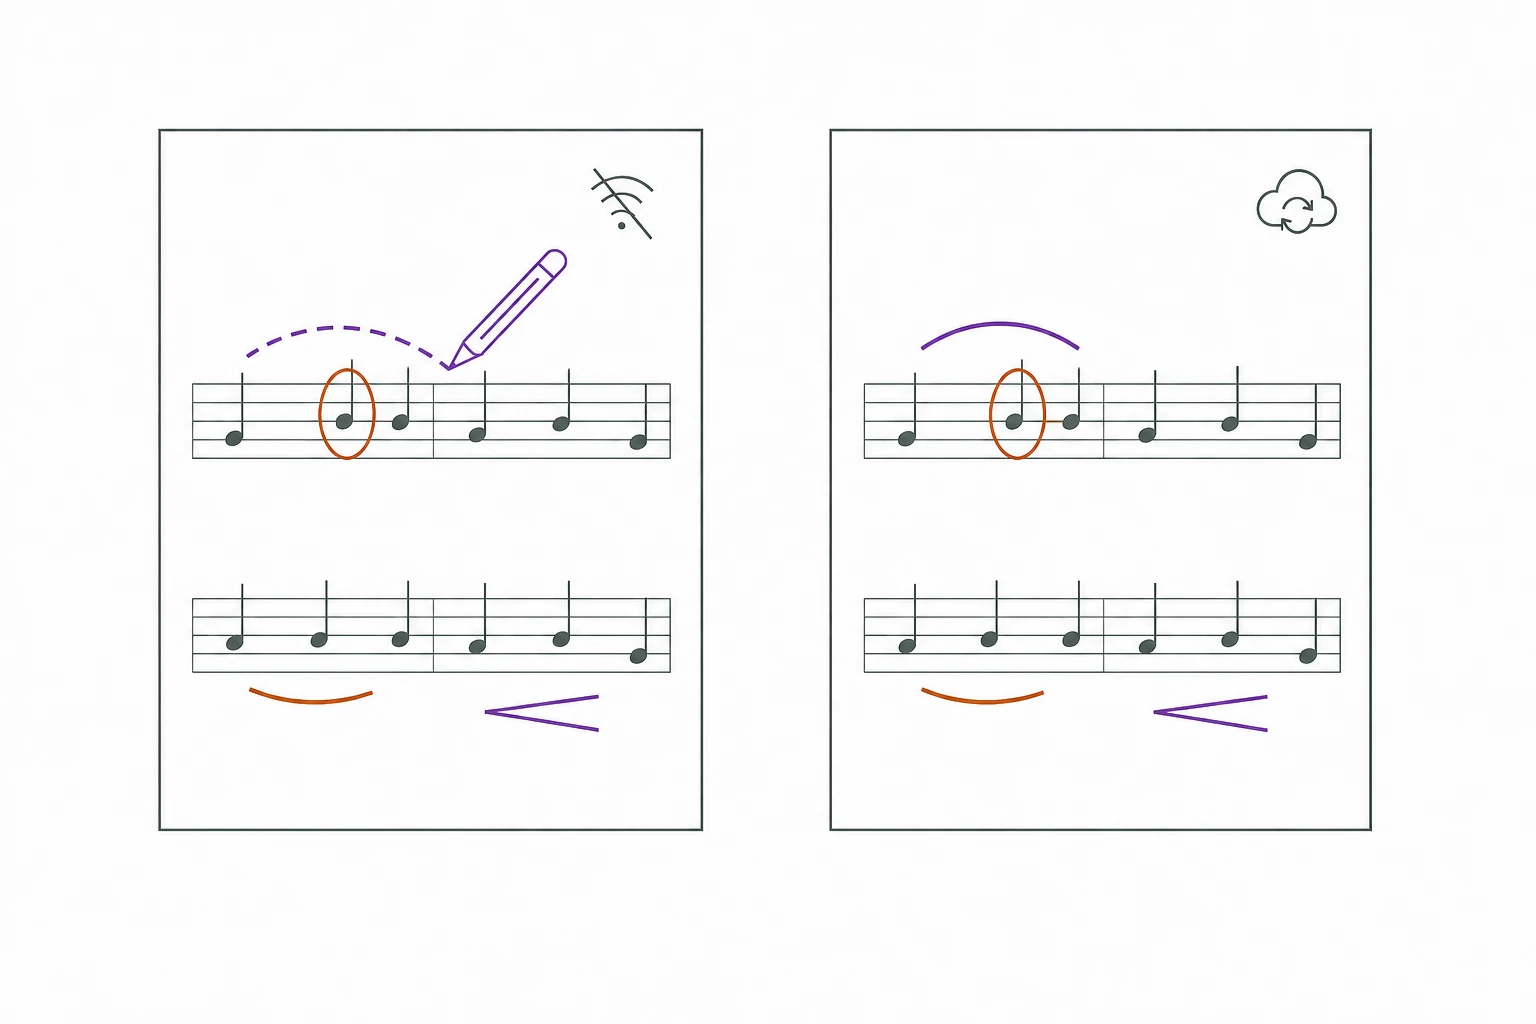
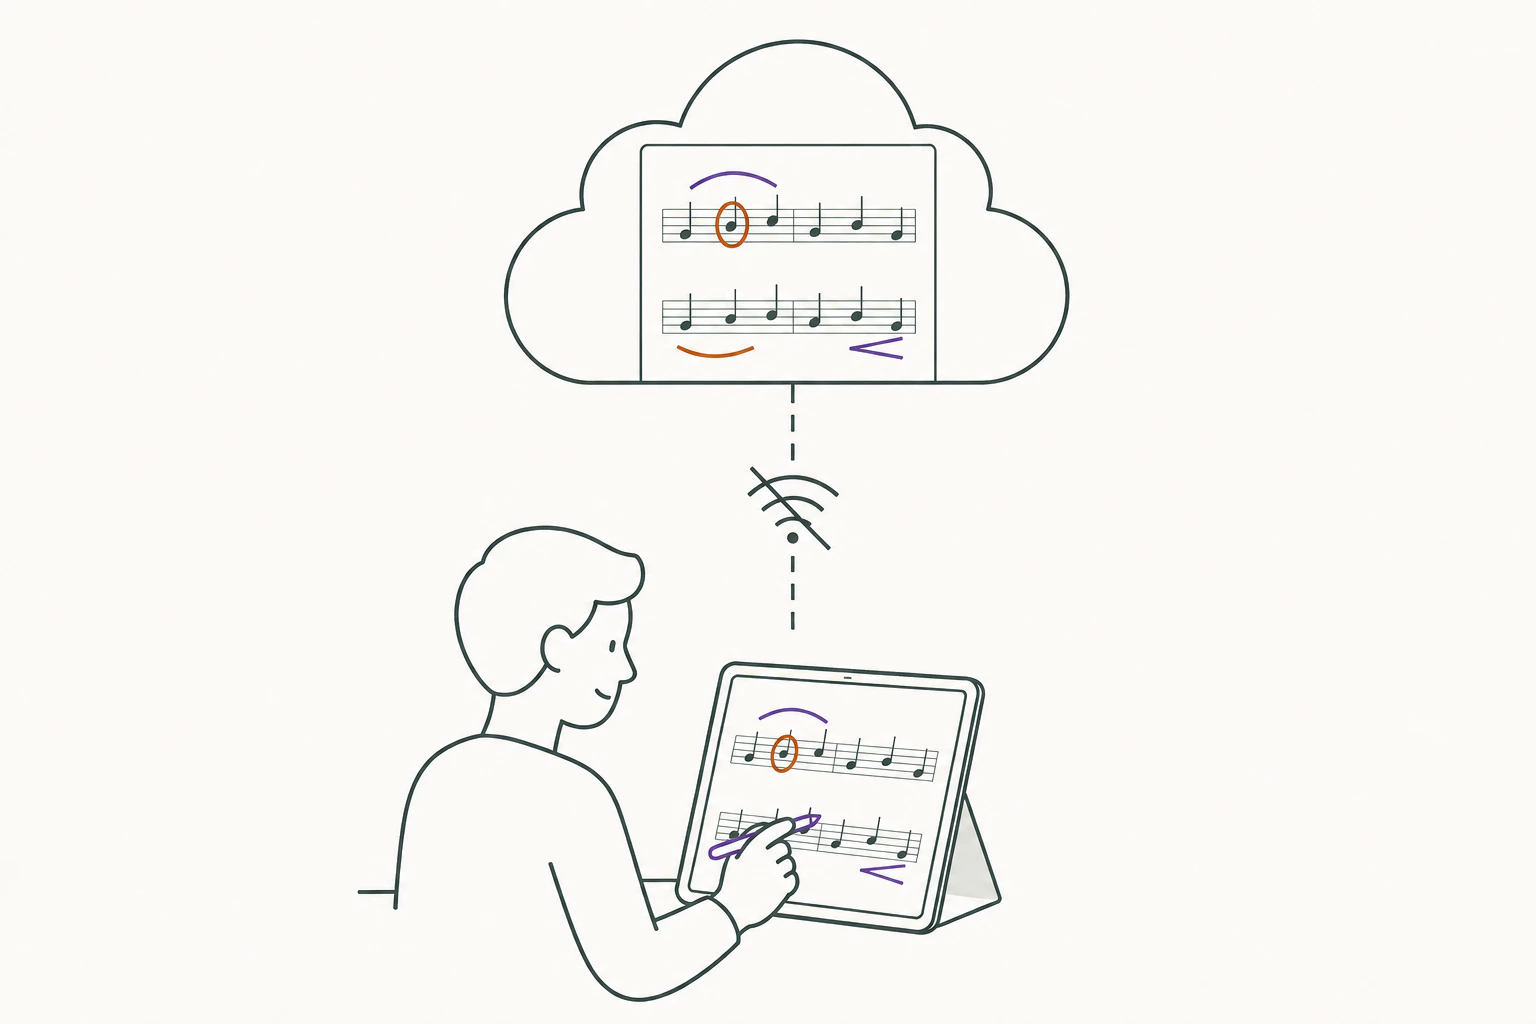
优化首页功能展示与示意图 (#129)

diff --git a/src/client/routes/home-page.tsx b/src/client/routes/home-page.tsx
@@ -52,34 +52,28 @@ type JoinStep =
 
 const productFeatures = [
   {
-    title: "不同声部，分层共享",
+    title: "不同声部，分层共享批注",
     illustration: sharedLayersIllustration,
-    illustrationAlt: "不同颜色的共享批注层从同一份乐谱展开，每层保留多处标记。",
     description:
       "排练要求按声部分层共享，获授权的人可以留下批注，大家在同一份谱上查看。",
   },
   {
-    title: "只看需要的，也保留自己的",
+    title: "共享批注按需看，个人笔记自己留",
     illustration: personalLayerIllustration,
-    illustrationAlt:
-      "显示紫色 Tenor 男高音共享层与仅自己可见的绿色个人层，其余共享层呈灰色虚线隐藏状态。",
     description:
       "选择需要查看的声部批注，也能在个人层记下自己的提醒，只有你能看到。",
   },
   {
-    title: "有网就同步，没网不耽误",
+    title: "离线可用，联网同步",
     illustration: offlineSyncIllustration,
-    illustrationAlt:
-      "左侧断网时仍能用笔在谱上画出虚线连音线；右侧联网时显示实线批注和云同步图标。",
     description:
       "提前下载离线副本，断网也能继续看谱、做批注；恢复联网后，批注会继续同步。",
   },
   {
-    title: "一份乐谱，适配每台设备",
+    title: "一份乐谱，多设备可用",
     illustration: everyDeviceIllustration,
-    illustrationAlt: "电脑、平板和手机上显示同一份乐谱与相同的彩色批注。",
     description:
-      "在平板、手机或电脑上，都能打开同一份乐谱和批注。",
+      "建议将合谱像应用一样安装到 Android 手机和平板、iPhone、iPad、Windows 电脑或 Mac，随时打开同一份乐谱和批注。",
   },
 ] as const;
 
@@ -300,42 +294,47 @@ export function HomePage() {
         </main>
       ) : session.isPending ? <main className="page-shell"><p role="status">正在加载…</p></main> : <main className="marketing-content">
         <section className="marketing-hero" aria-labelledby="page-title">
-          <p className="hero-mark">合谱 · Same Page</p>
-          <h1 id="page-title" lang="en">
-            Harmony begins on the Same Page
-          </h1>
-          <p className="hero-zh" lang="zh-CN">
-            你的笔记我的谱
-          </p>
-          <div className="hero-description">
-            <p lang="en">
-              A cloud-based score library built for choir rehearsals and shared
-              annotations.
+          <div className="marketing-hero__content">
+            <p className="hero-mark">合谱 · Same Page</p>
+            <h1 id="page-title" lang="en">
+              Harmony begins on the Same Page
+            </h1>
+            <p className="hero-zh" lang="zh-CN">
+              你的笔记我的谱
             </p>
-            <p lang="zh-CN">为合唱排练与共享批注打造的乐谱云盘。</p>
-          </div>
-          <div className="hero-actions">
-            <Button
-              className="primary-button hero-cta"
-              onPress={() => setJoinOpen(true)}
-            >
-              进入云盘
-            </Button>
-            {previewChoir ? (
-              <Link
-                className="hero-preview-link"
-                to={`/choirs/${previewChoir.id}`}
-                onClick={() => startLoadingJourney("enter-drive", "warm")}
+            <div className="hero-description">
+              <p lang="en">
+                A cloud-based score library built for choir rehearsals and shared
+                annotations.
+              </p>
+              <p lang="zh-CN">为合唱排练与共享批注打造的乐谱云盘。</p>
+            </div>
+            <div className="hero-actions">
+              <Button
+                className="primary-button hero-cta"
+                onPress={() => setJoinOpen(true)}
               >
-                访问公开体验云盘
-              </Link>
+                进入云盘
+              </Button>
+              {previewChoir ? (
+                <Link
+                  className="hero-preview-link"
+                  to={`/choirs/${previewChoir.id}`}
+                  onClick={() => startLoadingJourney("enter-drive", "warm")}
+                >
+                  访问公开体验云盘
+                </Link>
+              ) : null}
+            </div>
+            {pageMessage ? (
+              <p className="form-message page-message" role="alert">
+                {pageMessage}
+              </p>
             ) : null}
           </div>
-          {pageMessage ? (
-            <p className="form-message page-message" role="alert">
-              {pageMessage}
-            </p>
-          ) : null}
+          <a className="marketing-more-features" href="#features">
+            了解更多功能 <span aria-hidden="true">↓</span>
+          </a>
         </section>
 
         <section id="features" className="marketing-features" aria-label="产品特点">
@@ -355,7 +354,7 @@ export function HomePage() {
               <img
                 className="marketing-feature__illustration"
                 src={feature.illustration}
-                alt={feature.illustrationAlt}
+                alt=""
                 width={1536}
                 height={1024}
                 loading="lazy"

diff --git a/src/client/app.test.tsx b/src/client/app.test.tsx
@@ -103,17 +103,22 @@ describe("AppRoutes", () => {
       screen.getByText("为合唱排练与共享批注打造的乐谱云盘。"),
     ).toHaveAttribute("lang", "zh-CN");
     expect(
-      screen.getByRole("heading", { name: "不同声部，分层共享" }),
+      screen.getByRole("heading", { name: "不同声部，分层共享批注" }),
     ).toBeInTheDocument();
     expect(
-      screen.getByRole("heading", { name: "只看需要的，也保留自己的" }),
+      screen.getByRole("heading", {
+        name: "共享批注按需看，个人笔记自己留",
+      }),
     ).toBeInTheDocument();
     expect(
-      screen.getByRole("heading", { name: "有网就同步，没网不耽误" }),
+      screen.getByRole("heading", { name: "离线可用，联网同步" }),
     ).toBeInTheDocument();
     expect(
-      screen.getByRole("heading", { name: "一份乐谱，适配每台设备" }),
+      screen.getByRole("heading", { name: "一份乐谱，多设备可用" }),
     ).toBeInTheDocument();
+    expect(
+      screen.getByRole("link", { name: "了解更多功能" }),
+    ).toHaveAttribute("href", "#features");
     expect(
       screen.getByText(
         "排练要求按声部分层共享，获授权的人可以留下批注，大家在同一份谱上查看。",
@@ -131,7 +136,7 @@ describe("AppRoutes", () => {
     ).toBeInTheDocument();
     expect(
       screen.getByText(
-        "在平板、手机或电脑上，都能打开同一份乐谱和批注。",
+        "建议将合谱像应用一样安装到 Android 手机和平板、iPhone、iPad、Windows 电脑或 Mac，随时打开同一份乐谱和批注。",
       ),
     ).toBeInTheDocument();
     expect(screen.getByRole("link", { name: "登录" })).toBeInTheDocument();

diff --git a/src/client/styles.css b/src/client/styles.css
@@ -544,19 +544,60 @@ h1 {
 }
 
 .marketing-hero {
-  display: flex;
-  flex-direction: column;
-  align-items: flex-start;
-  justify-content: center;
+  display: grid;
+  grid-template-rows: 1fr auto 1fr;
   width: min(76rem, calc(100% - 2.5rem));
+  min-height: calc(100svh - 5rem);
   margin: 0 auto;
   padding: clamp(3rem, 6vw, 5rem) 0 clamp(4rem, 8vw, 7rem);
+}
+
+.marketing-hero__content {
+  grid-row: 2;
+  width: 100%;
+}
+
+.marketing-more-features {
+  display: inline-flex;
+  grid-row: 3;
+  align-self: end;
+  justify-self: center;
+  align-items: center;
+  gap: 0.45rem;
+  min-height: 2.75rem;
+  padding: 0.35rem 0.6rem;
+  color: var(--muted);
+  font-size: 0.88rem;
+  font-weight: 700;
+  letter-spacing: 0.025em;
+  text-decoration: none;
+}
+
+.marketing-more-features span {
+  transition: transform 160ms ease;
+}
+
+.marketing-more-features:hover,
+.marketing-more-features:focus-visible {
+  color: var(--brand);
+}
+
+.marketing-more-features:focus-visible {
+  border-radius: 0.45rem;
+  outline: 2px solid var(--brand);
+  outline-offset: 2px;
+}
+
+.marketing-more-features:hover span,
+.marketing-more-features:focus-visible span {
+  transform: translateY(0.18rem);
 }
 
 .marketing-features {
   width: min(76rem, calc(100% - 2.5rem));
   margin: 0 auto;
   border-top: 1px solid var(--line);
+  scroll-margin-top: 1rem;
 }
 
 .marketing-feature {
@@ -3056,7 +3097,8 @@ h1 {
 
   .marketing-hero {
     width: calc(100% - 2rem);
-      padding: 2.75rem 0 3.5rem;
+    min-height: calc(100svh - 4.5rem);
+    padding: 2.75rem 0 max(1rem, env(safe-area-inset-bottom));
   }
 
   .marketing-features,
